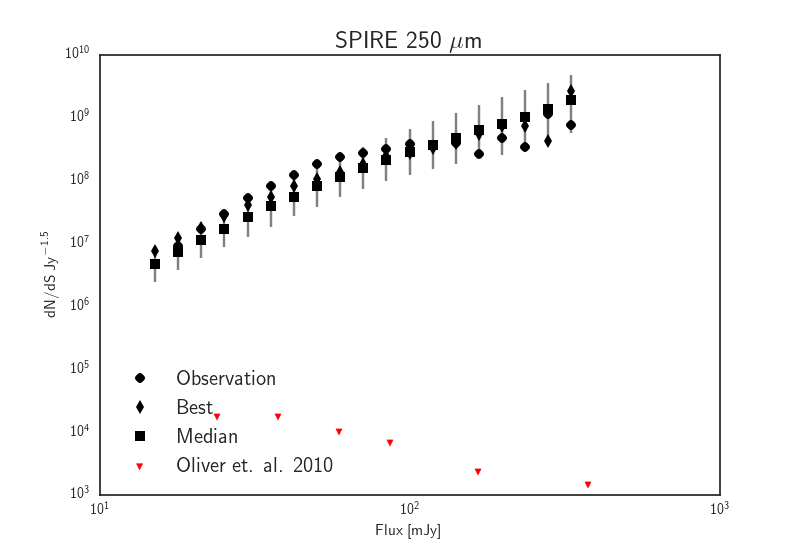
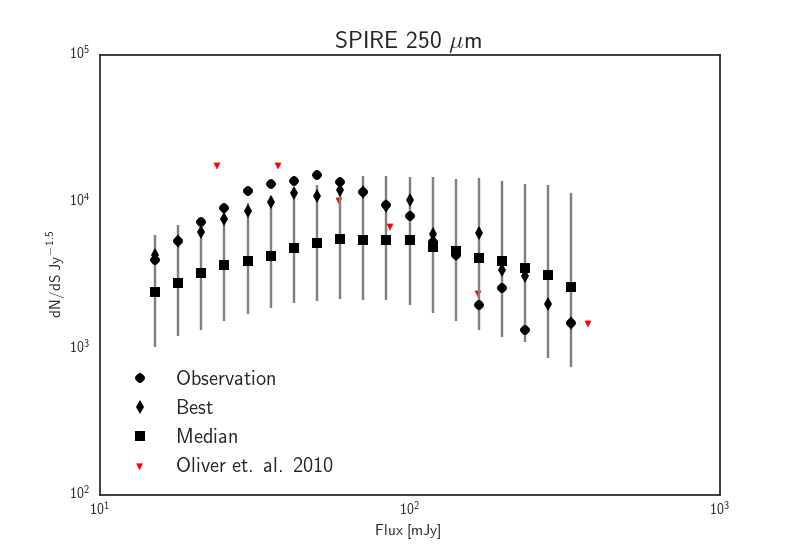
fixed number counts

diff --git a/trunk/src/numberCounts.cpp b/trunk/src/numberCounts.cpp
@@ -11,12 +11,11 @@ NumberCounts::NumberCounts(const valarray<double> &fluxes, const double area, co
 bool NumberCounts::initialize(const valarray<double> &fluxes, const double area, const string &name){
 
   if(fluxes.min() > 0){
-    double mean,N,sigma,tmp;
+    double mean,N,sigma;
     double diff,nbins,binlow;
     valarray<double> logf(log10(fluxes));
     
     _range[0] = logf.min(); //-0.3; //accept sources 0.5 times dimmer than minimum
-    //_range[0] = 1.1038; //as current file includes <12.7mJy sources
     _range[1] = logf.max(); //+1.0; //accept sources 10 times brighter than maximum
     
     N=static_cast<double>(logf.size());
@@ -27,6 +26,7 @@ bool NumberCounts::initialize(const valarray<double> &fluxes, const double area,
     nbins = ceil((_range[1]-_range[0])/_dS);
     _nbins = static_cast<int>(nbins);
     
+    //making range whole bin number
     diff = (_dS*nbins-(_range[1]-_range[0]))/2.0;
     if(diff > 0){
       _range[0] = _range[0] - diff;
@@ -40,13 +40,9 @@ bool NumberCounts::initialize(const valarray<double> &fluxes, const double area,
     for(int i=0.0;i<_nbins;i++){
       binlow = static_cast<double>(i)*_dS+_range[0];
       _bin_min[i]=pow(10,binlow);
-      _bin_max[i]=pow(10,binlow)+pow(10,_dS);
+      _bin_max[i]=pow(10,binlow+_dS);
       _bin_center[i]=pow((pow(_bin_min[i],-0.5)+pow(_bin_max[i],-0.5))/2.0,-2.0);
-      //_bin_center[i] = binlow+_dS/2;
-      //_scale_factors[i] = pow(pow(10,_bin_center[i])/1e3,2.5)/((pow(10,binlow)*(pow(10,_dS)-1))/1e3);
-      //the factor 2.303 is becaue dlog10(S)=ln(10)*S*dS
-      tmp=(_dS/(2.303*_bin_center[i])/1.e3);
-      _scale_factors[i]=pow((_bin_center[i]/1e3),2.5)/tmp;
+      _scale_factors[i] = pow((_bin_center[i]/1e3),2.5)/((_bin_max[i]-_bin_min[i])/1e3);
     }
     
     compute(fluxes,area,_counts);
